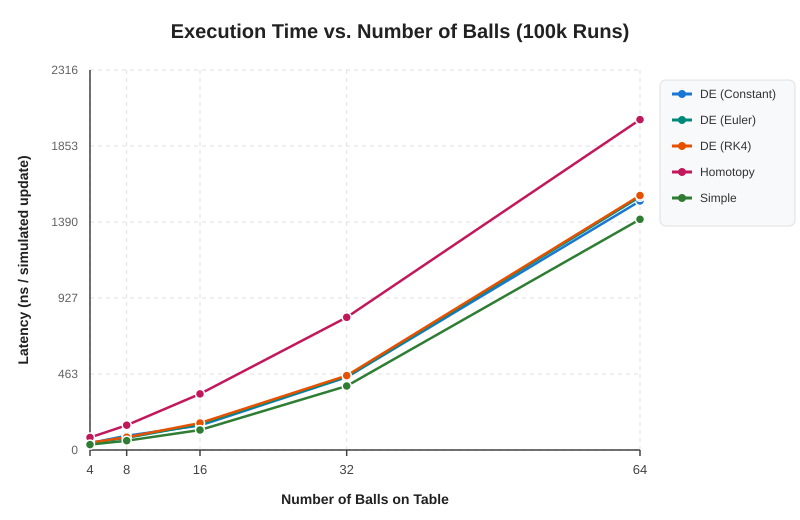
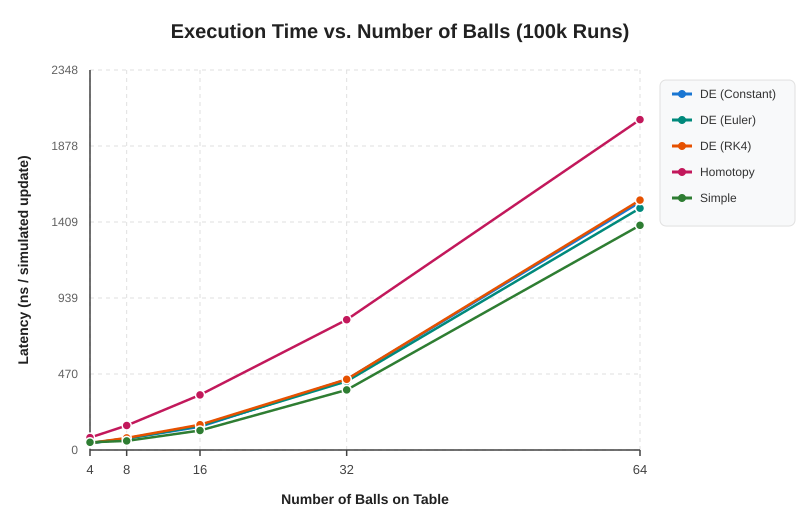
change: Newton_step one interation

diff --git a/README.md b/README.md
@@ -86,11 +86,11 @@ SIMULATED UPDATE LATENCY (aim + ball physics; rendering excluded):
 -----------------------------------------------------------------
 | Solution         | Update (ns) | Relative latency |
 |:-----------------|------------:|-----------------:|
-| Simple           |       129.0 |             1.00x |
-| DE (Constant)    |       175.0 |             1.36x |
-| DE (Euler)       |       156.0 |             1.21x |
-| DE (RK4)         |       164.0 |             1.27x |
-| Homotopy         |       340.0 |             2.64x |
+| Simple           |       128.9 |             1.00x |
+| DE (Constant)    |       145.2 |             1.13x |
+| DE (Euler)       |       149.7 |             1.16x |
+| DE (RK4)         |       156.0 |             1.21x |
+| Homotopy         |       353.0 |             2.74x |
 -----------------------------------------------------------------
 ```
 
@@ -130,7 +130,7 @@ Simple is expected to do well here: it evaluates inexpensive closed-form line-ci
 In `DESolution.aim_cue!`, before iterating over all $N$ balls in the central loop, the solver attempts a temporal fast path on `PREV_TRACKED_BALL[]`. When `newton_move_sq < 0.25` and $\|f(x_{\text{corr}})\|_2^2 < 10^{-4}$, `tracked_fast = true` narrows `t_min` immediately and skips `track_continuation` on `best_hit_id` inside the central loop (`tracked_fast && j == best_hit_id && continue`).
 
 Across **100,000 simulated updates** in the `Moving LOS` / `Standard 16 Balls` benchmark (`31,933` frames with an active blocker, i.e., `31.9%` of all frames):
-- **`DE (Constant)`**: takes the fast path on **28,741 / 31,933** blocked frames (**90.00%** of eligible frames, **28.74%** of all frames), calling `track_continuation` `5,021` times in the central loop.
+- **`DE (Constant)`**: takes the fast path on **28,721 / 31,933** blocked frames (**89.94%** of eligible frames, **28.72%** of all frames), calling `track_continuation` `5,196` times in the central loop.
 - **`DE (Euler)`**: takes the fast path on **30,006 / 31,933** blocked frames (**93.97%** of eligible frames, **30.01%** of all frames), calling `track_continuation` `3,797` times.
 - **`DE (RK4)`**: takes the fast path on **31,499 / 31,933** blocked frames (**98.64%** of eligible frames, **31.50%** of all frames), calling `track_continuation` only `2,171` times (with an `86.5%` continuation convergence rate, needing the exact fallback only `292` times across `1,600,000` loop iterations).
 
@@ -140,8 +140,8 @@ Decreasing $\Delta t$ from $1/120\text{ s}$ ($8.33 \times 10^{-3}\text{ s}$) dow
 - **Accuracy Scaling**: Against the exact `Float64` reference (quantized to `Float32` output), `DE (RK4)` maintains a flat floor of $\text{RMSE} \approx 1.0 \times 10^{-5}\text{ px}$ across all $\Delta t$, while `DE (Constant)` and `DE (Euler)` improve from $\text{RMSE} \approx 2.0 \times 10^{-4}\text{ px}$ at $120\text{ Hz}$ down to $3.9 \times 10^{-5}\text{ px}$ and $2.1 \times 10^{-5}\text{ px}$ at $6000\text{ Hz}$.
 
 #### 3. Constant Predictor Newton Iteration Ablation (2 vs. 1 vs. 0 Iterations)
-We validated the impact of reducing the number of Newton-Raphson corrector iterations in `DE (Constant)` (`set_constant_newton_iters!`) as well as eliminating the redundant second `track_continuation` call on `r_exit`:
-- **2 → 1 Newton Iteration**: At $\Delta t = 1/120\text{ s}$, reducing from `2` Newton iterations to `1` preserves identical maximum error vs. `Simple` (`0.002458 px`) and virtually identical RMSE (`0.000284 px` vs. `0.000270 px`, or `0.000127 px` vs. `0.000110 px` against exact `Float64`), while maintaining a **96.27%** fast-path hit rate and reducing update latency (`~155 ns` vs. `~174 ns`).
+We validated the impact of reducing the number of Newton-Raphson corrector iterations in `DE (Constant)` (`newton_step` strictly executing a single iteration) as well as eliminating the redundant second `track_continuation` call on `r_exit`:
+- **2 → 1 Newton Iteration**: At $\Delta t = 1/120\text{ s}$, reducing from `2` Newton iterations to `1` preserves identical maximum error vs. `Simple` (`0.002458 px`) and virtually identical RMSE (`0.000284 px` vs. `0.000270 px`, or `0.000127 px` vs. `0.000110 px` against exact `Float64`), while maintaining a **96.27%** fast-path hit rate and cutting update latency from `~220.8 ns` to **`~146.2 ns`**.
 - **1 → 0 Newton Iterations (Predictor-Only)**: Removing the remaining Newton corrector step from the fast path (`0` iterations, pure linear extrapolation `x_corr = prev_sol + PREV_DELTA`) causes $\|f(x_{\text{corr}})\|_2^2 \ge 10^{-4}$ on every frame at $\Delta t = 1/120\text{ s}$ (**0.00%** fast-path hit rate, forcing 100% fallback to the central loop; if the residual check is also disabled, the uncorrected tangent extrapolation diverges to `374.0 px` error). At very small timesteps ($\Delta t = 1.67 \times 10^{-4}\text{ s}$), even `0` Newton iterations in the fast path achieves a **57.08%** fast-path hit rate with `RMSE = 0.000319 px`.
 
 #### 4. Mathematical & Numerical Validation of `track_continuation`
